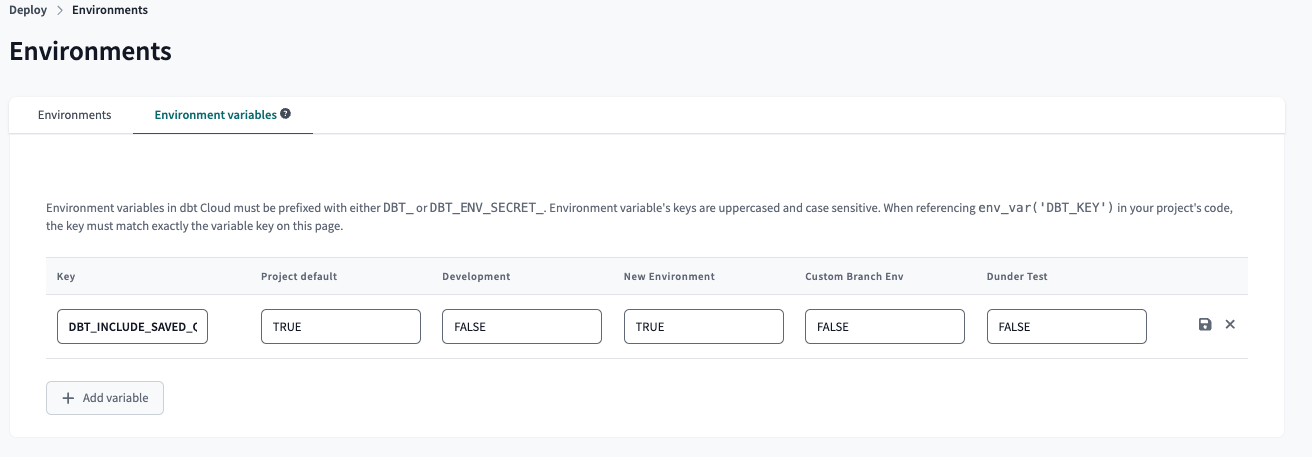
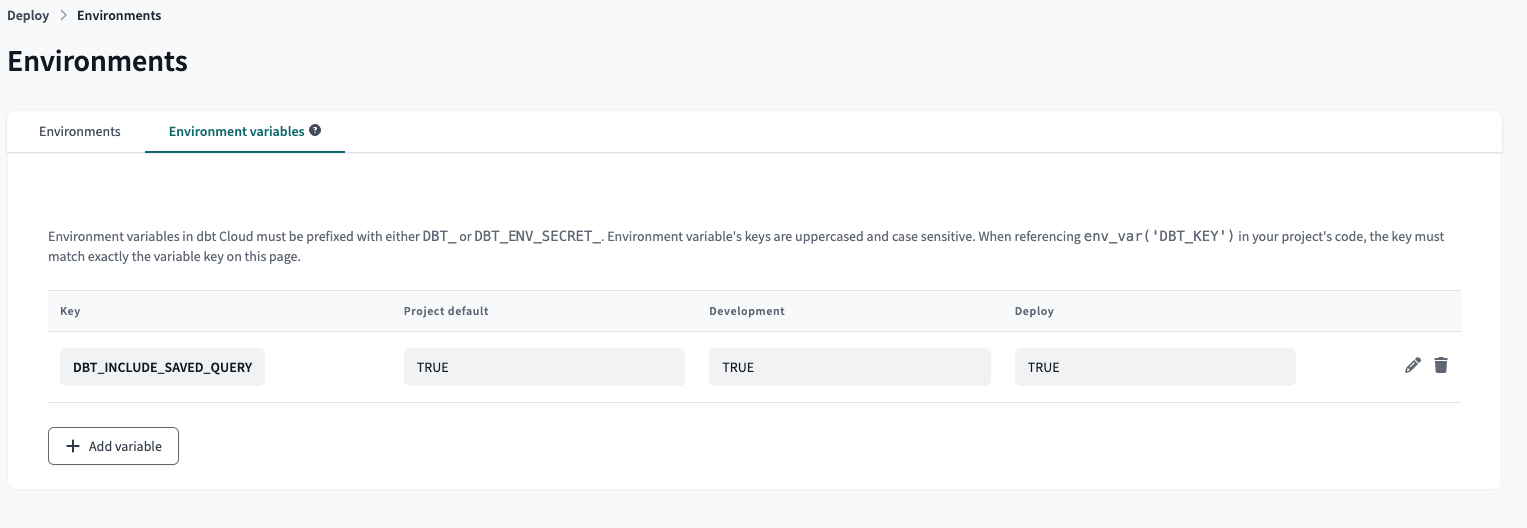
clarify and update screenshot

diff --git a/website/docs/docs/use-dbt-semantic-layer/exports.md b/website/docs/docs/use-dbt-semantic-layer/exports.md
@@ -134,11 +134,11 @@ To enable exports in production using the dbt Cloud job scheduler, follow these 
 
 1. Go to your **Environments** page by clicking **Deploy** in the navigation.
 2. Select **Environment variables**
-3. [Set the environment variable]((/docs/build/environment-variables#setting-and-overriding-environment-variables)) to `DBT_INCLUDE_SAVED_QUERY=TRUE`.
+3. [Set the environment variable](/docs/build/environment-variables#setting-and-overriding-environment-variables) key to `DBT_INCLUDE_SAVED_QUERY` and the environment variable(s) value to `TRUE` (`DBT_INCLUDE_SAVED_QUERY=TRUE`).
 
 Doing this ensures saved queries and exports are included in your dbt build job. For example, running `dbt build sq_name` runs the equivalent of `dbt sl export --saved-query sq_name` in the dbt Cloud Job scheduler.
 
-If exports aren't needed, you can set this variable to `FALSE` (`DBT_INCLUDE_SAVED_QUERY=FALSE`).
+If exports aren't needed, you can set the value(s) to `FALSE` (`DBT_INCLUDE_SAVED_QUERY=FALSE`).
 
 <Lightbox src="/img/docs/dbt-cloud/semantic-layer/deploy_exports.jpg" width="90%" title="Add an environment variable to run exports in your production run." />
 
